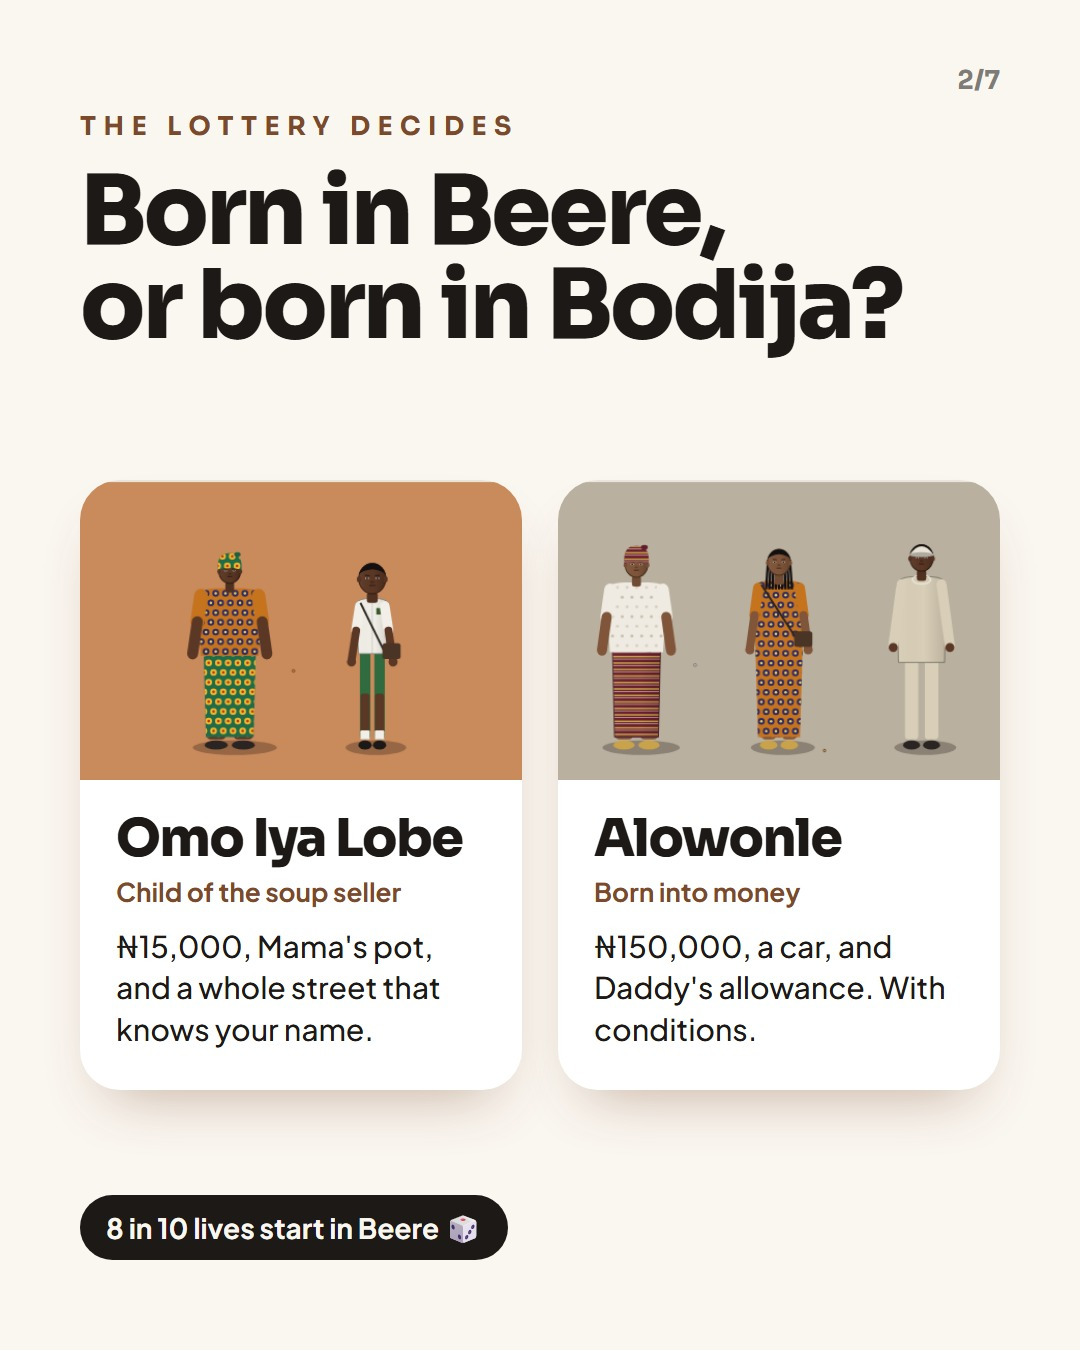
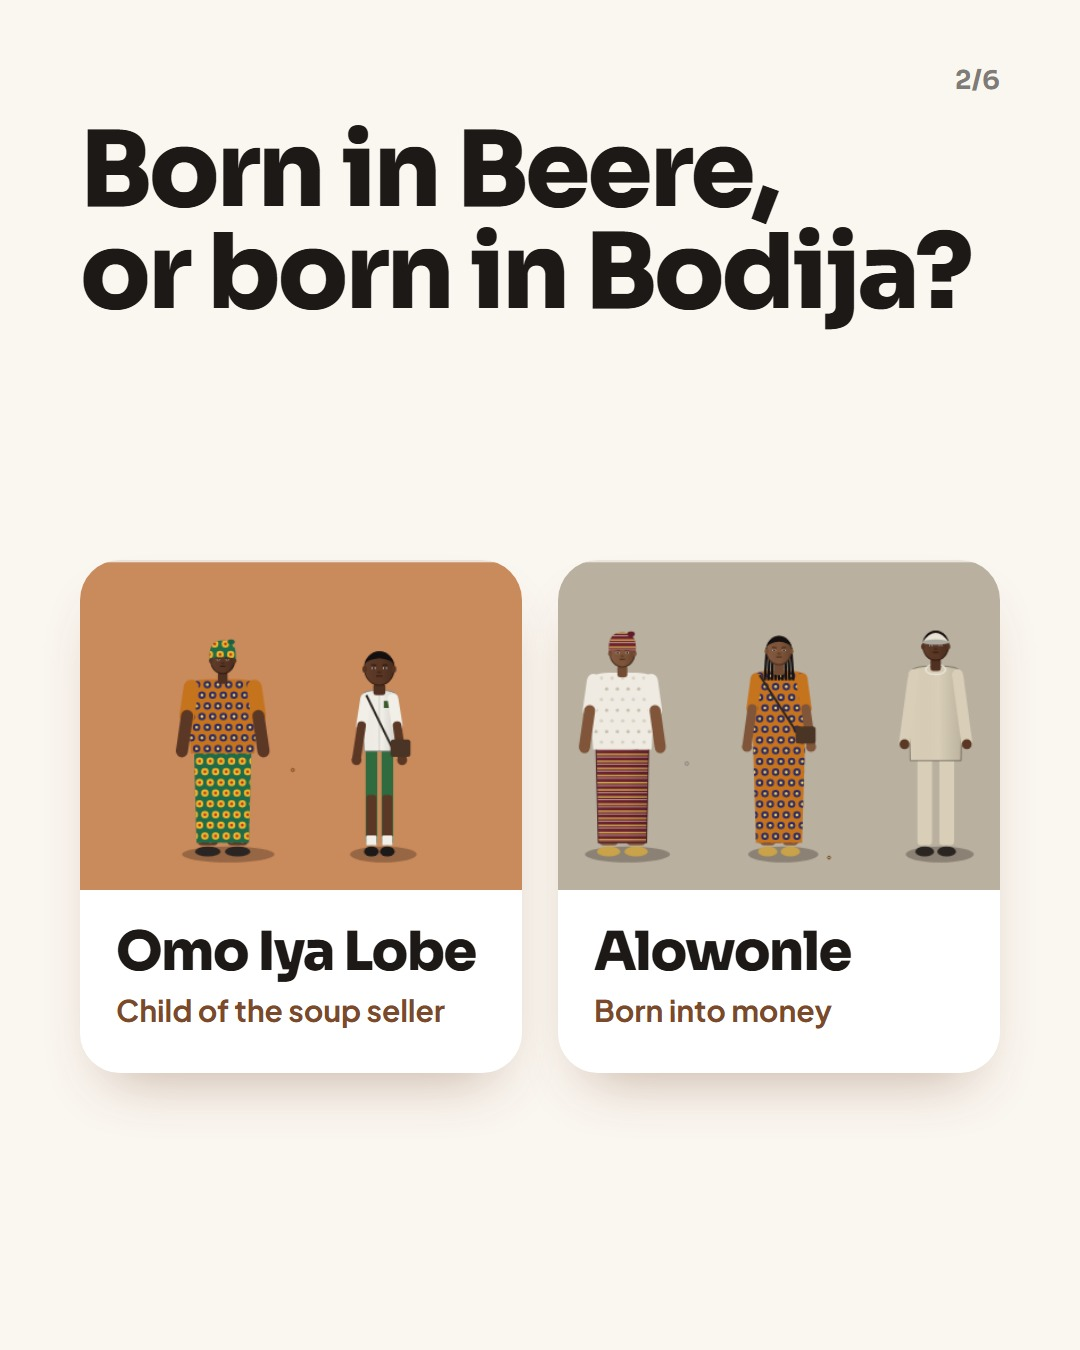
Launch kit: simpler 6-slide carousel and captions
One short line per slide, game pictures shown whole, no feature
details and no OpenStreetMap wording.

diff --git a/marketing/tools/posts.html b/marketing/tools/posts.html
@@ -29,6 +29,7 @@
   .chip { display: inline-block; padding: 14px 26px; border-radius: 999px; font-weight: 700; font-size: 28px; }
   .swipe { position: absolute; right: 80px; bottom: 70px; font-family: "Sora"; font-weight: 700; font-size: 30px; color: var(--gold); }
   .body { font-size: 36px; line-height: 1.38; font-weight: 500; }
+  .stage { position: absolute; left: 80px; right: 80px; top: 280px; bottom: 40px; display: flex; align-items: center; }
   ul.ticks { list-style: none; display: grid; gap: 18px; }
   ul.ticks li { font-size: 34px; font-weight: 600; padding-left: 58px; position: relative; }
   ul.ticks li::before { content: ""; position: absolute; left: 0; top: 8px; width: 34px; height: 34px; border-radius: 10px; background: var(--gold); }
@@ -38,109 +39,76 @@
 
 <!-- 1 · cover -->
 <div class="frame post dark" id="slide-1">
-  <img src="../art/hero-tall.png" style="position:absolute; inset:0 0 auto 0; width:100%; height:860px; object-fit:cover; object-position:50% 50%;">
-  <div style="position:absolute; left:0; right:0; top:560px; height:320px; background:linear-gradient(to bottom, rgba(28,25,23,0), var(--char));"></div>
+  <img src="../art/hero-tall.png" style="position:absolute; inset:0 0 auto 0; width:100%; height:900px; object-fit:cover; object-position:50% 50%;">
+  <div style="position:absolute; left:0; right:0; top:600px; height:320px; background:linear-gradient(to bottom, rgba(28,25,23,0), var(--char));"></div>
   <div class="pad brand" style="top:64px;"><img src="../brand/logo-mark.svg"><span>Omo Ibadan</span></div>
-  <div class="pad" style="top:860px;">
-    <div class="kicker">A life in real Ibadan</div>
-    <div class="display" style="font-size:118px; margin-top:24px;">Live your <span class="gold">Ibadan</span> life.</div>
-    <div class="body" style="margin-top:28px; opacity:0.78; max-width:820px;">From 18 to 38: hustle, school, love, owambe and the name you leave behind. Free in your browser.</div>
+  <div class="pad" style="top:930px;">
+    <div class="display" style="font-size:124px;">Live your <span class="gold">Ibadan</span> life.</div>
+    <div class="body" style="margin-top:26px; opacity:0.75;">A life game set in Ibadan.</div>
   </div>
   <div class="swipe">Swipe →</div>
 </div>
 
 <!-- 2 · two lives -->
 <div class="frame post light" id="slide-2">
-  <div class="count">2/7</div>
-  <div class="pad" style="top:110px;">
-    <div class="kicker" style="color:var(--roof)">The lottery decides</div>
-    <div class="display" style="font-size:96px; margin-top:22px;">Born in Beere,<br>or born in Bodija?</div>
+  <div class="count">2/6</div>
+  <div class="pad" style="top:120px;">
+    <div class="display" style="font-size:104px;">Born in Beere,<br>or born in Bodija?</div>
   </div>
-  <div class="pad" style="top:480px; display:grid; grid-template-columns:1fr 1fr; gap:36px;">
+  <div class="pad" style="top:560px; display:grid; grid-template-columns:1fr 1fr; gap:36px;">
     <div style="background:#fff; border-radius:40px; overflow:hidden; box-shadow:0 30px 60px -30px rgba(122,74,43,0.45);">
-      <img src="../art/lobe.png" style="display:block; width:100%; height:300px; object-fit:cover;">
-      <div style="padding:34px 36px 40px;">
-        <div class="display" style="font-size:52px;">Omo Iya Lobe</div>
-        <div style="font-size:26px; font-weight:700; color:var(--roof); margin-top:10px;">Child of the soup seller</div>
-        <div class="body" style="font-size:30px; margin-top:18px;">₦15,000, Mama's pot, and a whole street that knows your name.</div>
+      <img src="../art/lobe.png" style="display:block; width:100%; height:330px; object-fit:cover;">
+      <div style="padding:36px 36px 44px;">
+        <div class="display" style="font-size:54px;">Omo Iya Lobe</div>
+        <div style="font-size:30px; font-weight:700; color:var(--roof); margin-top:12px;">Child of the soup seller</div>
       </div>
     </div>
     <div style="background:#fff; border-radius:40px; overflow:hidden; box-shadow:0 30px 60px -30px rgba(122,74,43,0.45);">
-      <img src="../art/alowonle.png" style="display:block; width:100%; height:300px; object-fit:cover;">
-      <div style="padding:34px 36px 40px;">
-        <div class="display" style="font-size:52px;">Alowonle</div>
-        <div style="font-size:26px; font-weight:700; color:var(--roof); margin-top:10px;">Born into money</div>
-        <div class="body" style="font-size:30px; margin-top:18px;">₦150,000, a car, and Daddy's allowance. With conditions.</div>
+      <img src="../art/alowonle.png" style="display:block; width:100%; height:330px; object-fit:cover;">
+      <div style="padding:36px 36px 44px;">
+        <div class="display" style="font-size:54px;">Alowonle</div>
+        <div style="font-size:30px; font-weight:700; color:var(--roof); margin-top:12px;">Born into money</div>
       </div>
     </div>
   </div>
-  <div class="pad" style="bottom:90px;"><span class="chip" style="background:var(--char); color:var(--cream);">8 in 10 lives start in Beere 🎲</span></div>
 </div>
 
-<!-- 3 · real streets -->
+<!-- 3 · the city -->
 <div class="frame post dark" id="slide-3">
-  <div class="count">3/7</div>
-  <div class="pad" style="top:110px;">
-    <div class="kicker">27 districts</div>
-    <div class="display" style="font-size:96px; margin-top:22px;">Every street is<br><span class="gold">real Ibadan.</span></div>
+  <div class="count">3/6</div>
+  <div class="pad" style="top:120px;">
+    <div class="display" style="font-size:112px;">Walk <span class="gold">the city.</span></div>
   </div>
-  <div class="pad" style="top:470px;"><img class="shot" src="../art/ojaoba.png" style="height:560px; object-position:50% 30%;"></div>
-  <div class="pad body" style="top:1090px; opacity:0.8;">Walk Oja'ba, Mapo, Dugbe, Bodija, the UI gate and Iwo Road. Built from OpenStreetMap: real roads, real distances.</div>
+  <div class="stage"><img class="shot" src="../art/ojaoba.png" style="height:auto;"></div>
 </div>
 
-<!-- 4 · micra rush -->
+<!-- 4 · micra -->
 <div class="frame post dark" id="slide-4">
-  <div class="count">4/7</div>
-  <div class="pad" style="top:110px;">
-    <div class="kicker">Micra Rush</div>
-    <div class="display" style="font-size:96px; margin-top:22px;">Hustle micra on<br><span class="gold">real roads.</span></div>
+  <div class="count">4/6</div>
+  <div class="pad" style="top:120px;">
+    <div class="display" style="font-size:112px;">Hustle <span class="gold">micra.</span></div>
   </div>
-  <div class="pad" style="top:470px;"><img class="shot" src="../art/micra.png" style="height:520px; object-position:50% 50%;"></div>
-  <div class="pad" style="top:1060px;">
-    <ul class="ticks">
-      <li>Kerb lane. Stop inside the bay. Load up.</li>
-      <li>Okada for front? PÒÒN!</li>
-      <li>Overload and VIO go catch you.</li>
-    </ul>
-  </div>
+  <div class="stage"><img class="shot" src="../art/micra.png" style="height:auto;"></div>
 </div>
 
 <!-- 5 · owambe -->
 <div class="frame post" id="slide-5" style="background:#2a1424; color:var(--cream);">
-  <div class="count">5/7</div>
-  <div class="pad" style="top:110px;">
-    <div class="kicker">Fuji night</div>
-    <div class="display" style="font-size:104px; margin-top:22px;">Owambe<br><span class="gold">dey sweet.</span></div>
+  <div class="count">5/6</div>
+  <div class="pad" style="top:120px;">
+    <div class="display" style="font-size:112px;">Spray at <span class="gold">owambe.</span></div>
   </div>
-  <div class="pad" style="top:480px;"><img class="shot" src="../art/owambe.png" style="height:560px; object-position:50% 40%;"></div>
-  <div class="pad body" style="top:1100px; opacity:0.85;">Aso-ebi, the Fuji band, the celebrant on the floor. Spray your money. The money boy go pack am.</div>
+  <div class="stage"><img class="shot" src="../art/owambe.png" style="height:auto;"></div>
 </div>
 
-<!-- 6 · the story -->
-<div class="frame post light" id="slide-6">
-  <div class="count">6/7</div>
-  <div class="pad" style="top:110px;">
-    <div class="kicker" style="color:var(--roof)">Twenty years</div>
-    <div class="display" style="font-size:104px; margin-top:22px;">Your story,<br>18 → 38.</div>
-  </div>
-  <div class="pad" style="top:500px; display:grid; gap:40px;">
-    <div style="display:grid; grid-template-columns:170px 1fr; gap:26px; align-items:baseline;"><div class="display gold" style="font-size:68px;">18</div><div class="body" style="font-size:40px;"><b>JAMB</b> in January. Read those past questions.</div></div>
-    <div style="display:grid; grid-template-columns:170px 1fr; gap:26px; align-items:baseline;"><div class="display gold" style="font-size:68px;">19</div><div class="body" style="font-size:40px;"><b>UI, the Poly,</b> or the market. Your choice.</div></div>
-    <div style="display:grid; grid-template-columns:170px 1fr; gap:26px; align-items:baseline;"><div class="display gold" style="font-size:68px;">23</div><div class="body" style="font-size:40px;"><b>NYSC.</b> Your call-up letter could say Borno.</div></div>
-    <div style="display:grid; grid-template-columns:170px 1fr; gap:26px; align-items:baseline;"><div class="display gold" style="font-size:68px;">24+</div><div class="body" style="font-size:40px;"><b>Work, love, family.</b> Introduction, wedding, naming.</div></div>
-    <div style="display:grid; grid-template-columns:170px 1fr; gap:26px; align-items:baseline;"><div class="display gold" style="font-size:68px;">38</div><div class="body" style="font-size:40px;"><b>Your legacy.</b> The city sings your oriki.</div></div>
-  </div>
-</div>
-
-<!-- 7 · call to action -->
-<div class="frame post dark" id="slide-7">
+<!-- 6 · play -->
+<div class="frame post dark" id="slide-6">
   <img src="../art/hero-tall.png" style="position:absolute; inset:auto 0 0 0; width:100%; height:560px; object-fit:cover; object-position:50% 70%; opacity:0.55;">
   <div style="position:absolute; left:0; right:0; bottom:300px; height:260px; background:linear-gradient(to bottom, var(--char), rgba(28,25,23,0));"></div>
-  <div class="pad" style="top:150px; text-align:center;">
-    <img src="../brand/logo-mark.svg" style="width:210px; height:210px; border-radius:52px; box-shadow:0 30px 60px -20px rgba(0,0,0,0.7);">
-    <div class="display" style="font-size:110px; margin-top:44px;">Omo Ibadan</div>
-    <div class="body" style="margin-top:22px; opacity:0.8;">Free in your browser. No download.<br>Made for your phone.</div>
-    <div style="margin-top:56px;"><span class="chip" style="background:linear-gradient(90deg,var(--gold),var(--gold2)); color:var(--char); font-size:38px; padding:22px 48px;">Play free · link in bio</span></div>
+  <div class="pad" style="top:170px; text-align:center;">
+    <img src="../brand/logo-mark.svg" style="width:220px; height:220px; border-radius:54px; box-shadow:0 30px 60px -20px rgba(0,0,0,0.7);">
+    <div class="display" style="font-size:116px; margin-top:44px;">Omo Ibadan</div>
+    <div class="body" style="margin-top:20px; opacity:0.8;">Free to play.</div>
+    <div style="margin-top:56px;"><span class="chip" style="background:linear-gradient(90deg,var(--gold),var(--gold2)); color:var(--char); font-size:40px; padding:22px 52px;">Link in bio</span></div>
   </div>
 </div>
 

diff --git a/marketing/README.md b/marketing/README.md
@@ -6,7 +6,7 @@ Everything here is drawn from the game itself (same art kit), so posts match wha
 
 | File | Use |
 |---|---|
-| `01-cover.jpg` … `07-play-free.jpg` | First post: a 7-slide carousel, 1080×1350 (Instagram/Facebook portrait). `01-cover.jpg` also works alone as a single post. |
+| `01-cover.jpg` … `06-play-free.jpg` | First post: a 6-slide carousel, 1080×1350 (Instagram/Facebook portrait). One line per slide: Live your Ibadan life · Born in Beere or Bodija? · Walk the city · Hustle micra · Spray at owambe · Free to play. `01-cover.jpg` also works alone. |
 | `profile-picture.png` | Profile photo, 1080×1080. The sun-ring "O" stays inside the circle crop. |
 | `cover-banner-1500x500.jpg` | X header and Facebook cover. |
 | `logo-horizontal-light.png` / `-dark.png` | Logo with wordmark, for anywhere else. |
@@ -21,7 +21,7 @@ To change text or re-capture art: run the dev server on :3001, then `node market
 **Name:** Omo Ibadan
 
 **Bio (Instagram, under 150 characters):**
-> Live your Ibadan life 🏠☀ A free life-sim set in real Ibadan, 18 → 38. Born in Beere or Bodija? Play free, no download 👇
+> Live your Ibadan life 🏠☀ A free life game set in Ibadan. Play below 👇
 
 **Link:** the game. Use the home page, not /play, so new people see what it is first.
 
@@ -29,23 +29,18 @@ To change text or re-capture art: run the dev server on :3001, then `node market
 
 ## First post (the carousel)
 
+Keep it short: say what the game is, not how it works.
+
 > Ẹ káàbọ̀ sí Ìbàdàn 🏠☀
 >
-> Omo Ibadan is a life-sim set in the real Ibadan: 27 districts, real roads, real fares.
+> Omo Ibadan is a life game set in Ibadan. Born in Beere or born in Bodija, the rest is up to you.
 >
-> You start at 18. The lottery decides if you're born in Beere with Mama's soup pot, or behind a gate in Old Bodija.
+> Free to play. Link in bio 👆
 >
-> Then it's your life: hustle micra from Mokola to Iwo Road, write JAMB, choose UI or the Poly, serve NYSC, spray money at owambe, fall in love, and leave a name the city remembers.
->
-> Free in your browser. No download. Made for your phone.
-> 👉 Play: link in bio
->
-> Which life would you draw: Omo Iya Lobe or Alowonle? 👇
->
-> #OmoIbadan #Ibadan #Oyo #NaijaGames #NigerianGames #LifeSim #IndieGame #Owambe #Yoruba #MadeInNigeria
+> #OmoIbadan #Ibadan #NaijaGames #LifeGame #Owambe #Yoruba
 
 **Single-image version** (`01-cover.jpg`, for X or a WhatsApp status):
-> Live your Ibadan life. 🏠☀ From JAMB to owambe to your legacy, in the real Ibadan. Free in your browser: [link]
+> Live your Ibadan life. 🏠☀ A free life game set in Ibadan: [link]
 
 ## The first two weeks
 
